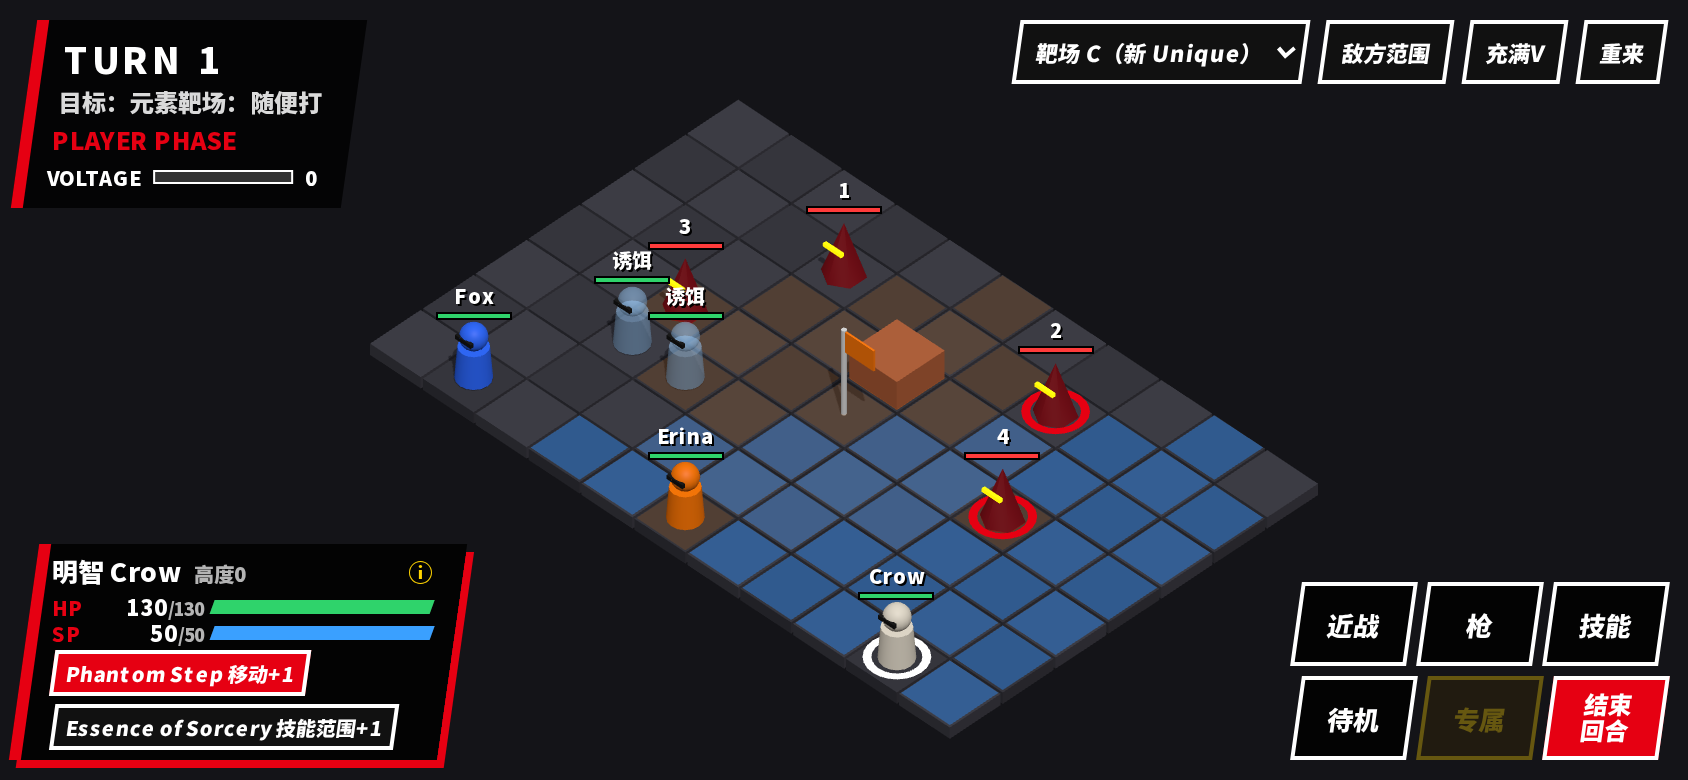
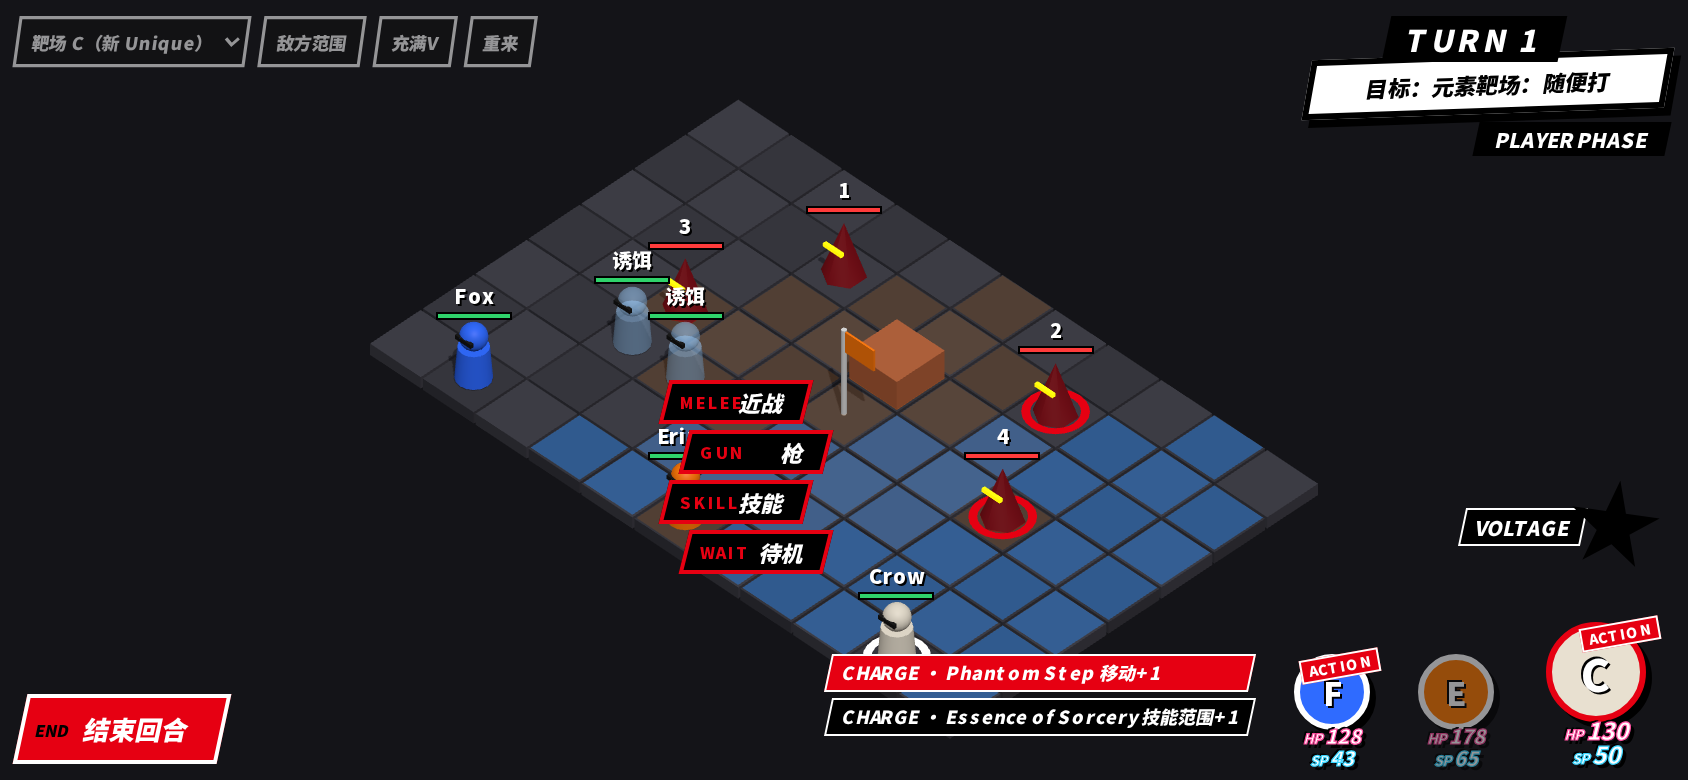
feat(umbra-p5t/ui): P5T 布局 v1——回合/目标右上白框、右下队伍头像排+HP/SP+ACTION、星形 Voltage、指令斜签跟随角色、结束回合左下、Charge 条；依据 docs/design/P5T-UI-LAYOUT.md

diff --git a/labs/umbra-p5t/src/style.css b/labs/umbra-p5t/src/style.css
@@ -167,3 +167,81 @@ button.small.on { background: #e60012; }
 @keyframes stripIn { to { transform: rotate(-7deg) translateX(0); } }
 @keyframes skIn { to { transform: rotate(-7deg) scale(1); } }
 @media (max-height: 420px) { #summon .per { font-size: 32px; } #summon .sk { font-size: 18px; } #summon .who { font-size: 11px; } }
+
+/* ===== P5T 布局 v1（Hark，依据 docs/design/P5T-UI-LAYOUT.md）===== */
+/* 回合+目标：右上，黑签 TURN + 白斜框目标 */
+#hud-tl { left: auto; right: max(10px, env(safe-area-inset-right)); top: 8px; background: transparent; border: none; padding: 0; transform: none; text-align: right; display: flex; flex-direction: column; align-items: flex-end; }
+#hud-tl > * { transform: none; }
+#turn { background: #000; color: #fff; font-size: 15px; padding: 1px 10px; transform: skewX(-12deg) translateX(-60%); margin-bottom: -4px; z-index: 1; position: relative; }
+#objective { background: #fff; color: #000; font-weight: 900; font-size: 13px; opacity: 1; padding: 6px 18px; border: 3px solid #000; box-shadow: 4px 4px 0 #000; transform: skewX(-12deg) rotate(-2deg); min-width: 230px; text-align: center; }
+#phase { background: #000; color: #fff; font-size: 10px; padding: 1px 10px; margin-top: 4px; transform: skewX(-12deg); }
+#hud-tl #volt { display: none; }
+#ban { background: #000; padding: 1px 8px; }
+/* 调试按钮：左上，弱化 */
+#hud-tr { right: auto; left: max(8px, env(safe-area-inset-left)); top: 8px; opacity: .55; transform: scale(.8); transform-origin: left top; }
+/* 指令：浮在当前角色左侧的斜签 */
+#actions { display: flex; flex-direction: column; align-items: flex-end; gap: 3px; transform: none; bottom: auto; }
+#actions button, #actions button:nth-child(2), #actions button:nth-child(5) { transform: skewX(-14deg); width: auto; min-width: 92px; height: 30px; padding: 0 14px 0 26px; font-size: 14px; background: #000; color: #fff; border: 2px solid #e60012; box-shadow: none; clip-path: none; text-align: right; }
+#actions button::before { left: 6px; top: 50%; transform: translateY(-50%) skewX(14deg); font-size: 8px; color: #e60012; }
+#actions button:nth-child(odd) { margin-right: 10px; }
+#actions button.sel { background: #fff; color: #000; border-color: #000; }
+#actions button:disabled { display: none; }
+#actions .triple { min-width: 150px; }
+#skills { right: auto; left: 50%; bottom: 12px; transform: translateX(-50%); flex-direction: row; flex-wrap: wrap; justify-content: center; max-width: 70vw; }
+/* 右下：Voltage 星 */
+#volt-star { right: max(14px, env(safe-area-inset-right)); bottom: 92px; display: flex; align-items: center; gap: 0; }
+#volt-star span { order: -1; background: #000; color: #fff; font-size: 10px; font-weight: 900; padding: 1px 6px; transform: skewX(-12deg) translateX(8px); border: 1px solid #fff; }
+#volt-star .star { width: 58px; height: 58px; background: #000; clip-path: polygon(50% 0, 61% 35%, 98% 35%, 68% 57%, 79% 91%, 50% 70%, 21% 91%, 32% 57%, 2% 35%, 39% 35%); position: relative; transform: rotate(8deg); filter: drop-shadow(0 0 0 #fff); }
+#volt-star .star i { position: absolute; left: 0; right: 0; bottom: 0; height: 0; background: linear-gradient(0deg, #b38600, #ffd400); }
+#volt-star.full .star i { background: #ffd400; }
+#volt-star.full .star { animation: starPulse .8s ease-in-out infinite alternate; }
+@keyframes starPulse { to { transform: rotate(8deg) scale(1.08); } }
+/* 右下：队伍头像排 */
+#party { right: max(10px, env(safe-area-inset-right)); bottom: max(6px, env(safe-area-inset-bottom)); display: flex; align-items: flex-end; gap: 6px; }
+#party .pm { position: relative; width: 66px; cursor: pointer; text-align: center; }
+#party .pm.cur { width: 92px; }
+#party .pm.done { opacity: .55; }
+#party .face { margin: 0 auto; width: 46px; height: 46px; border-radius: 50%; background: var(--c); border: 3px solid #fff; box-shadow: 3px 3px 0 #000; display: flex; align-items: center; justify-content: center; font-weight: 900; font-size: 20px; color: #fff; text-shadow: 1px 1px 0 #000, -1px -1px 0 #000; }
+#party .pm.cur .face { width: 62px; height: 62px; font-size: 28px; border-color: #e60012; }
+#party .act { position: absolute; right: -2px; top: 2px; background: #e60012; color: #fff; font-size: 8px; padding: 1px 4px; transform: rotate(-10deg); border: 1px solid #fff; }
+#party .nums { display: flex; justify-content: center; gap: 4px; font-weight: 900; font-size: 13px; margin-top: -4px; text-shadow: 2px 2px 0 #000, -1px -1px 0 #000; font-style: italic; }
+#party .nums small { font-size: 7px; margin-right: 1px; }
+#party .hp { color: #fff; -webkit-text-stroke: .6px #ff4fa0; }
+#party .sp { color: #fff; -webkit-text-stroke: .6px #3ad6ff; }
+#party .pm.cur .nums { font-size: 16px; }
+#party .chg { position: absolute; bottom: 100%; right: 0; display: flex; flex-direction: column; gap: 2px; margin-bottom: 4px; }
+#party .chg i { font-style: normal; font-size: 9px; background: #000; border: 1px solid #fff; padding: 1px 4px; white-space: nowrap; }
+#party .chg i.sel { background: #e60012; }
+/* 结束回合：左下 */
+#endbar { left: max(10px, env(safe-area-inset-left)); bottom: max(8px, env(safe-area-inset-bottom)); }
+#endbar button { position: relative; padding: 6px 16px 6px 30px; font-weight: 900; font-size: 13px; background: #e60012; border: 2px solid #fff; transform: skewX(-12deg); }
+#endbar button::before { content: attr(data-en); position: absolute; left: 6px; top: 50%; transform: translateY(-50%); font-size: 8px; color: #000; }
+#endbar button:disabled { opacity: .35; }
+/* 敌方查看卡：左侧中部 */
+#unit-card { bottom: auto; top: 30%; }
+#baton { top: auto; bottom: 74px; left: auto; right: 260px; transform: skewX(-10deg); background: #fff; color: #000; border: 3px solid #000; }
+@media (max-height: 420px) {
+  #objective { font-size: 11px; padding: 4px 12px; min-width: 180px; }
+  #party .pm { width: 54px; } #party .pm.cur { width: 76px; }
+  #party .face { width: 38px; height: 38px; font-size: 16px; } #party .pm.cur .face { width: 50px; height: 50px; font-size: 22px; }
+  #volt-star { bottom: 78px; } #volt-star .star { width: 46px; height: 46px; }
+  #actions button, #actions button:nth-child(2), #actions button:nth-child(5) { height: 26px; font-size: 12px; min-width: 80px; }
+}
+/* v1.1 修重叠 */
+#party .pm { width: 64px; } #party .pm.cur { width: 84px; }
+#party .nums { flex-direction: column; gap: 0; line-height: 1.05; font-size: 11px; margin-top: -2px; }
+#party .pm.cur .nums { font-size: 13px; }
+#party .act { font-size: 7px; padding: 0 3px; right: 4px; top: 0; }
+#party .chg { bottom: 0; right: auto; left: auto; position: fixed; transform: translateX(-110%); margin: 0; }
+#volt-star { bottom: 118px; }
+#volt-star .star { overflow: hidden; }
+#actions button, #actions button:nth-child(2), #actions button:nth-child(5) { height: 26px; font-size: 12px; min-width: 84px; }
+@media (max-height: 420px) {
+  #party .pm { width: 56px; } #party .pm.cur { width: 72px; }
+  #party .nums { font-size: 10px; } #party .pm.cur .nums { font-size: 12px; }
+  #volt-star { bottom: 104px; }
+  #actions button, #actions button:nth-child(2), #actions button:nth-child(5) { height: 22px; font-size: 11px; min-width: 72px; padding: 0 10px 0 22px; }
+}
+#party .chgs { order: -1; display: flex; flex-direction: column; gap: 3px; margin-right: 6px; align-self: center; }
+#party .chgs i { font-style: normal; font-size: 9px; font-weight: 800; background: #000; border: 1px solid #fff; padding: 2px 6px; white-space: nowrap; transform: skewX(-12deg); cursor: pointer; }
+#party .chgs i.sel { background: #e60012; }

diff --git a/labs/umbra-p5t/src/main.ts b/labs/umbra-p5t/src/main.ts
@@ -342,11 +342,21 @@ function refreshHud() {
   $('#volt').classList.toggle('full', vfull);
   ($('#volt .vbar i') as HTMLElement).style.width = `${(100 * battle.voltage) / VOLTAGE_MAX}%`;
   $('#volt-n').textContent = vfull ? 'MAX' : String(battle.voltage);
+  // P5T 布局：右下 Voltage 星 + 队伍头像排（Hark 美术，依据 docs/design/P5T-UI-LAYOUT.md）
+  ($('#volt-star .star i') as HTMLElement).style.height = `${(100 * battle.voltage) / VOLTAGE_MAX}%`;
+  $('#volt-star').classList.toggle('full', vfull);
+  ($('#endbar button') as HTMLButtonElement).disabled = battle.phase !== 'player' || busy;
+  const allies = battle.units.filter((x) => x.side === 'ally' && !x.ko && !x.decoy && !x.prop);
+  $('#party').innerHTML = allies.map((a) => `<div class="pm${a.id === selected ? ' cur' : ''}${a.acted ? ' done' : ''}" data-uid="${a.id}">
+    <div class="face" style="--c:${'#' + (COLORS[a.id] ?? 0x888888).toString(16).padStart(6, '0')}">${(a.name.split(' ').pop() ?? a.name).slice(0, 1)}</div>
+    ${!a.acted && battle.phase === 'player' ? '<b class="act">ACTION</b>' : ''}
+    <div class="nums"><span class="hp"><small>HP</small>${a.hp}</span><span class="sp"><small>SP</small>${a.sp}</span></div>
+    </div>`).join('') + (() => { const a = selected ? battle.unit(selected) : null; return a && a.charges?.length && battle.phase === 'player' ? `<div class="chgs">${a.charges.map((c) => `<i data-charge="${c}" class="${c === a.charge ? 'sel' : ''}">CHARGE · ${CHARGE_NAME[c] ?? c}</i>`).join('')}</div>` : ''; })();
   const bans = battle.speakerBans();
   $('#ban').classList.toggle('hidden', !bans.length);
   $('#ban').textContent = bans.length ? `喇叭禁止：${bans.map((b) => ACT_NAME[b.ban]).join('、')}（黄色范围内）` : '';
   const card = $('#unit-card');
-  const u = selected ? battle.unit(selected) : inspectEnemy ? battle.unit(inspectEnemy) : null;
+  const u = inspectEnemy ? battle.unit(inspectEnemy) : null;
   if (u) {
     card.classList.remove('hidden');
     const gun = u.gun ? `枪 ${u.gun.power}/${battle.gunRange(u)}格${u.gun.shape && u.gun.shape !== 'single' ? `(${u.gun.shape === 'aoe' ? '散射' : '爆炸'})` : ''}` : '';
@@ -423,6 +433,16 @@ function meleeViaMove(u: Unit, t: Unit): { kind: 'melee'; via: Vec } | null {
 
 function refreshLabels() {
   const w = window.innerWidth, h = window.innerHeight;
+  const act = $('#actions');
+  const su = selected ? battle.unit(selected) : null;
+  const sg = su ? unitMesh.get(su.id) : null;
+  if (sg && battle.phase === 'player' && !busy) {
+    const v = sg.position.clone().add(new THREE.Vector3(0, 0.5, 0)).project(camera);
+    const sx = ((v.x + 1) / 2) * w, sy = ((1 - v.y) / 2) * h;
+    act.style.right = `${Math.max(8, w - sx + 34)}px`; act.style.left = 'auto';
+    act.style.top = `${Math.min(h - 200, Math.max(60, sy - 70))}px`; act.style.bottom = 'auto';
+    act.classList.remove('hidden');
+  } else act.classList.add('hidden');
   for (const u of battle.units) {
     const el = labelEl.get(u.id);
     const g = unitMesh.get(u.id);
@@ -733,6 +753,13 @@ function onTap(h: { tile?: Vec; unit?: string }) {
   refreshAll();
 }
 
+$('#endbar').addEventListener('click', () => { if (busy || battle.phase !== 'player') return; selected = null; void play(battle.endPlayerPhase()); });
+$('#party').addEventListener('click', (ev) => {
+  const c = (ev.target as HTMLElement).closest('[data-charge]') as HTMLElement | null;
+  if (c && selected && !busy) { void play(battle.selectCharge(selected, c.dataset.charge as never)); return; }
+  const p = (ev.target as HTMLElement).closest('[data-uid]') as HTMLElement | null;
+  if (p) onTap({ unit: p.dataset.uid! });
+});
 $('#actions').addEventListener('click', (ev) => {
   const b = (ev.target as HTMLElement).closest('button');
   if (!b || busy) return;

diff --git a/labs/umbra-p5t/index.html b/labs/umbra-p5t/index.html
@@ -17,6 +17,9 @@
   <div id="baton" class="hud hidden"></div>
   <div id="summon" class="hidden"></div>
   <div id="unit-card" class="hud hidden"></div>
+  <div id="party" class="hud"></div>
+  <div id="volt-star" class="hud"><div class="star"><i></i></div><span>VOLTAGE</span></div>
+  <div id="endbar" class="hud"><button data-act="end" data-en="END" class="end">结束回合</button></div>
   <div id="preview" class="hud hidden"></div>
   <div id="actions" class="hud">
     <button data-act="melee" data-en="MELEE">近战</button>
@@ -24,7 +27,6 @@
     <button data-act="skill" data-en="SKILL">技能</button>
     <button data-act="wait" data-en="WAIT">待机</button>
     <button data-act="unique" data-en="UNIQUE" class="unique">专属</button>
-    <button data-act="end" data-en="END" class="end">结束<br/>回合</button>
     <button data-act="triple" class="triple hidden">TRIPLE THREAT</button>
   </div>
   <div id="skills" class="hud hidden"></div>
